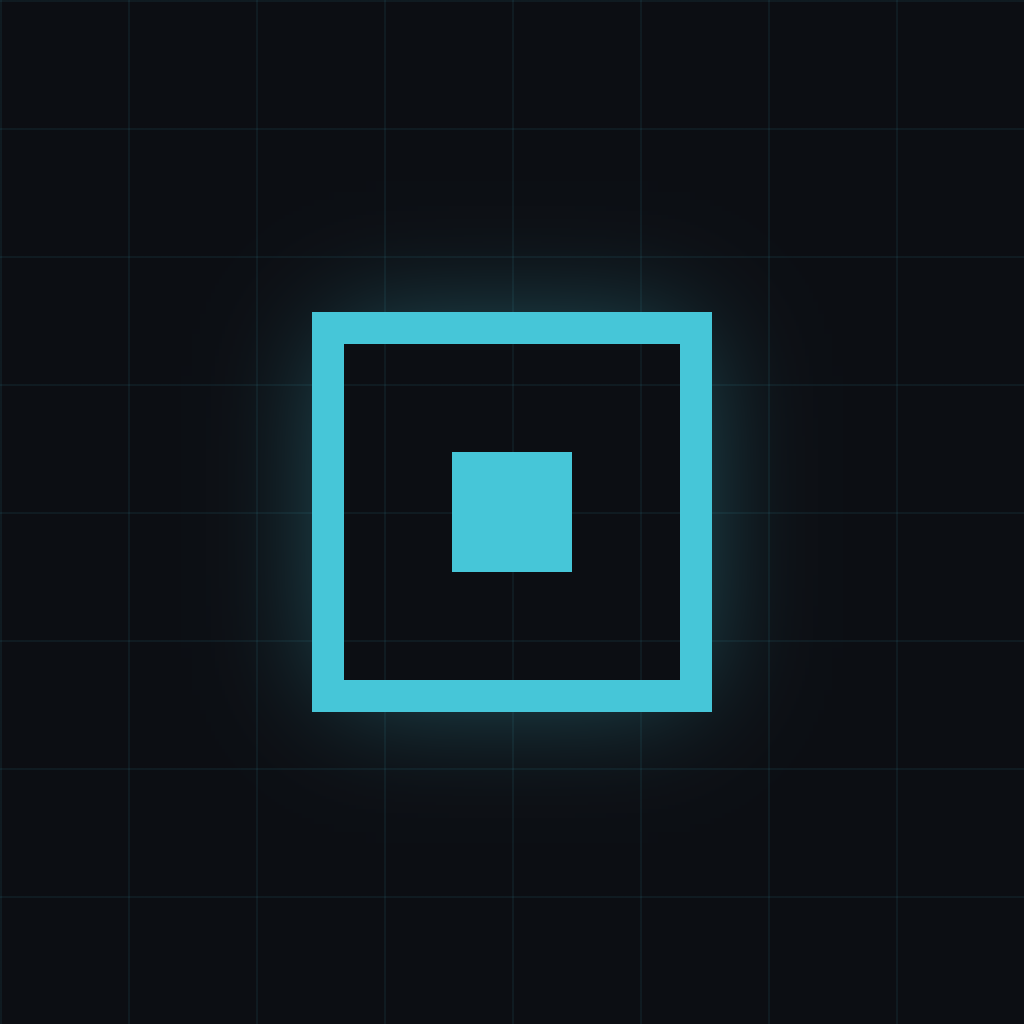
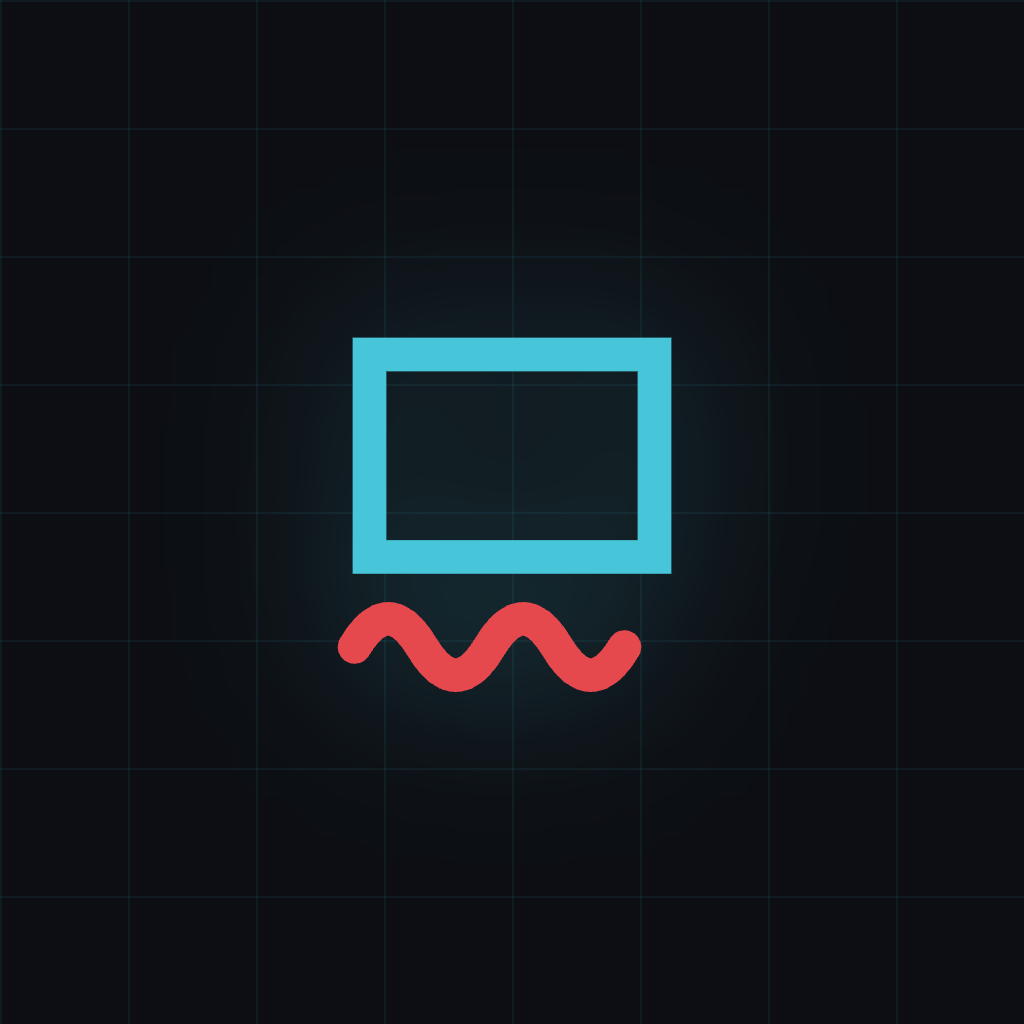
feat(brand): adopt the "lint squiggle" mark everywhere (#16)
New logo direction (chosen over the viewfinder square): a token box with the red
wavy underline — the universal sign of a linter flagging code. Distinctive and
grounded in what the tool does; the red also ties to the severity language.

- New mark in the site nav + footers (SiteChrome + all captured partials), as
  inline SVG using --ol-accent + --ol-sev-critical so it flips with the theme.
- Regenerated brand assets with the squiggle: logo.svg, README banner.png,
  avatar.png (GitHub avatar), favicon.png.

Build 96 pages, 30 tests, lint clean. Mark verified in nav (dark + light).

Changed region(s): [[0.2812, 0.2812, 0.7188, 0.7188]]

diff --git a/site/src/html/index.html b/site/src/html/index.html
@@ -3,7 +3,7 @@
   
   <nav style="position: sticky; top: 0px; z-index: 50; display: flex; align-items: center; gap: var(--ol-space-6); padding: 0 var(--ol-space-6); height: 56px; background: color-mix(in oklch, var(--ol-canvas) 88%, transparent); backdrop-filter: blur(12px); border-bottom: 1px solid var(--ol-border);">
     <a href="/" aria-label="OAuthLint home" style="display: flex; align-items: center; gap: 10px; text-decoration: none; color: var(--ol-text);">
-      <div style="width: 24px; height: 24px; border: 1.5px solid var(--ol-accent); display: grid; place-items: center;"><div style="width: 6px; height: 6px; background: var(--ol-accent);"></div></div>
+      <svg width="24" height="24" viewBox="0 0 64 64" fill="none" aria-hidden="true"><rect x="13" y="11" width="38" height="27" stroke="var(--ol-accent)" stroke-width="5"/><path d="M11 50c3-5 6-5 9 0s6 5 9 0 6-5 9 0 6 5 9 0" stroke="var(--ol-sev-critical)" stroke-width="5" stroke-linecap="round"/></svg>
       <span style="font-family: var(--ol-font-display); font-weight: 700; font-size: 16px; letter-spacing: -0.02em;">OAuthLint</span>
     </a>
     <div style="flex: 1 1 0%;"></div>
@@ -462,7 +462,7 @@
     <div style="max-width: 1180px; margin: 0px auto; padding: var(--ol-space-12) var(--ol-space-6); display: flex; flex-wrap: wrap; gap: var(--ol-space-8); align-items: flex-start;">
       <div style="flex: 1 1 0%; min-width: 240px;">
         <div style="display: flex; align-items: center; gap: 10px; margin-bottom: var(--ol-space-3);">
-          <div style="width: 22px; height: 22px; border: 1.5px solid var(--ol-accent); display: grid; place-items: center;"><div style="width: 5px; height: 5px; background: var(--ol-accent);"></div></div>
+          <svg width="22" height="22" viewBox="0 0 64 64" fill="none" aria-hidden="true"><rect x="13" y="11" width="38" height="27" stroke="var(--ol-accent)" stroke-width="5"/><path d="M11 50c3-5 6-5 9 0s6 5 9 0 6-5 9 0 6 5 9 0" stroke="var(--ol-sev-critical)" stroke-width="5" stroke-linecap="round"/></svg>
           <span style="font-family: var(--ol-font-display); font-weight: 700; font-size: 16px;">OAuthLint</span>
         </div>
         <p style="font-size: var(--ol-text-body-s); color: var(--ol-text-muted); line-height: 1.6; margin: 0px; max-width: 38ch;">Catch the auth bugs AI assistants ship. Built by identity &amp; security engineers. Open source, MIT-licensed, obsessively low-noise.</p>

diff --git a/site/src/html/notfound.html b/site/src/html/notfound.html
@@ -1,7 +1,7 @@
 <div style="min-height:100vh; display:flex; flex-direction:column; background-color:var(--ol-canvas); background-image:linear-gradient(to right, var(--ol-grid-line) 1px, transparent 1px), linear-gradient(to bottom, var(--ol-grid-line) 1px, transparent 1px); background-size:32px 32px;">
   <nav style="display:flex; align-items:center; gap:var(--ol-space-6); padding:0 var(--ol-space-6); height:56px; border-bottom:1px solid var(--ol-border);">
     <a href="/" style="display:flex; align-items:center; gap:10px; text-decoration:none; color:var(--ol-text);" aria-label="OAuthLint home">
-      <div style="width:24px; height:24px; border:1.5px solid var(--ol-accent); display:grid; place-items:center;"><div style="width:6px; height:6px; background:var(--ol-accent);"></div></div>
+      <svg width="24" height="24" viewBox="0 0 64 64" fill="none" aria-hidden="true"><rect x="13" y="11" width="38" height="27" stroke="var(--ol-accent)" stroke-width="5"/><path d="M11 50c3-5 6-5 9 0s6 5 9 0 6-5 9 0 6 5 9 0" stroke="var(--ol-sev-critical)" stroke-width="5" stroke-linecap="round"/></svg>
       <span style="font-family:var(--ol-font-display); font-weight:700; font-size: 16px; letter-spacing:-0.02em;">OAuthLint</span>
     </a>
     <div style="flex:1;"></div>

diff --git a/site/src/html/docs.html b/site/src/html/docs.html
@@ -2,7 +2,7 @@
 
   <nav style="position: sticky; top: 0px; z-index: 50; display: flex; align-items: center; gap: var(--ol-space-6); padding: 0 var(--ol-space-6); height: 56px; background: color-mix(in oklch, var(--ol-canvas) 88%, transparent); backdrop-filter: blur(12px); border-bottom: 1px solid var(--ol-border);">
     <a href="/" aria-label="OAuthLint home" style="display: flex; align-items: center; gap: 10px; text-decoration: none; color: var(--ol-text);">
-      <div style="width: 24px; height: 24px; border: 1.5px solid var(--ol-accent); display: grid; place-items: center;"><div style="width: 6px; height: 6px; background: var(--ol-accent);"></div></div>
+      <svg width="24" height="24" viewBox="0 0 64 64" fill="none" aria-hidden="true"><rect x="13" y="11" width="38" height="27" stroke="var(--ol-accent)" stroke-width="5"/><path d="M11 50c3-5 6-5 9 0s6 5 9 0 6-5 9 0 6 5 9 0" stroke="var(--ol-sev-critical)" stroke-width="5" stroke-linecap="round"/></svg>
       <span style="font-family: var(--ol-font-display); font-weight: 700; font-size: 16px; letter-spacing: -0.02em;">OAuthLint</span>
     </a>
     <div style="flex: 1 1 0%;"></div>

diff --git a/site/src/html/about.html b/site/src/html/about.html
@@ -2,7 +2,7 @@
 
   <nav style="position:sticky; top:0; z-index:50; display:flex; align-items:center; gap:var(--ol-space-6); padding:0 var(--ol-space-6); height:56px; background:color-mix(in oklch, var(--ol-canvas) 88%, transparent); backdrop-filter:blur(12px); border-bottom:1px solid var(--ol-border);">
     <a href="/" style="display:flex; align-items:center; gap:10px; text-decoration:none; color:var(--ol-text);" aria-label="OAuthLint home">
-      <div style="width:24px; height:24px; border:1.5px solid var(--ol-accent); display:grid; place-items:center;"><div style="width:6px; height:6px; background:var(--ol-accent);"></div></div>
+      <svg width="24" height="24" viewBox="0 0 64 64" fill="none" aria-hidden="true"><rect x="13" y="11" width="38" height="27" stroke="var(--ol-accent)" stroke-width="5"/><path d="M11 50c3-5 6-5 9 0s6 5 9 0 6-5 9 0 6 5 9 0" stroke="var(--ol-sev-critical)" stroke-width="5" stroke-linecap="round"/></svg>
       <span style="font-family:var(--ol-font-display); font-weight:700; font-size: 16px; letter-spacing:-0.02em;">OAuthLint</span>
     </a>
     <div style="flex:1;"></div>
